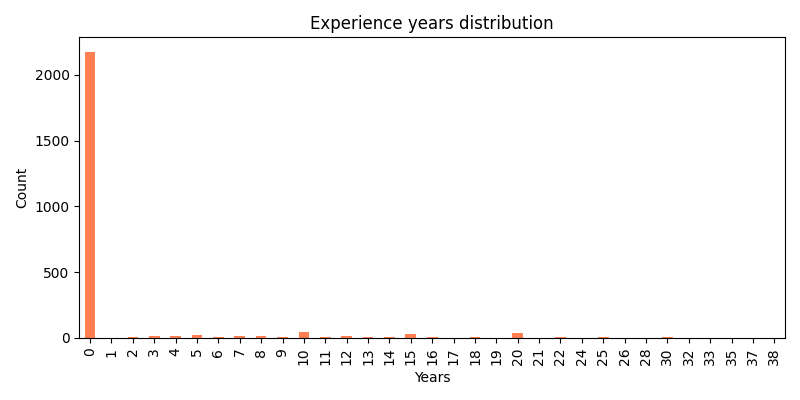
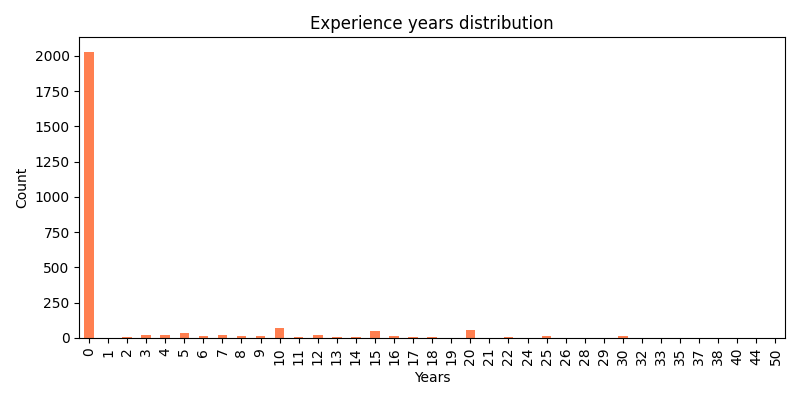
Task 2 complete: matcher, semantic ranker, classifier 76% accuracy, feature importance, bias check

diff --git a/src/classifier.py b/src/classifier.py
@@ -112,6 +112,26 @@ def train_classifier(json_path, model_save_dir):
     joblib.dump(vectorizer, os.path.join(model_save_dir, "vectorizer.pkl"))
     print(f"Model saved to {model_save_dir}/classifier.pkl")
 
+    # Feature importance plot — save directly from training script
+    feature_names = vectorizer.get_feature_names_out()
+    
+    if hasattr(best_model, "coef_"):
+        importances = np.abs(best_model.coef_).mean(axis=0)
+    else:
+        importances = best_model.feature_importances_
+
+    top_indices = np.argsort(importances)[-20:]
+    top_features = [feature_names[i] for i in top_indices]
+    top_scores = [importances[i] for i in top_indices]
+
+    plt.figure(figsize=(10, 7))
+    plt.barh(top_features, top_scores, color="steelblue")
+    plt.title("Top 20 most important features")
+    plt.xlabel("Importance score")
+    plt.tight_layout()
+    plt.savefig(os.path.join(BASE_DIR, "reports", "feature_importance.png"))
+    print("Feature importance plot saved to reports/feature_importance.png")
+
     # Save results summary
     with open(os.path.join(model_save_dir, "eval_results.json"), "w") as f:
         json.dump(results, f, indent=2)